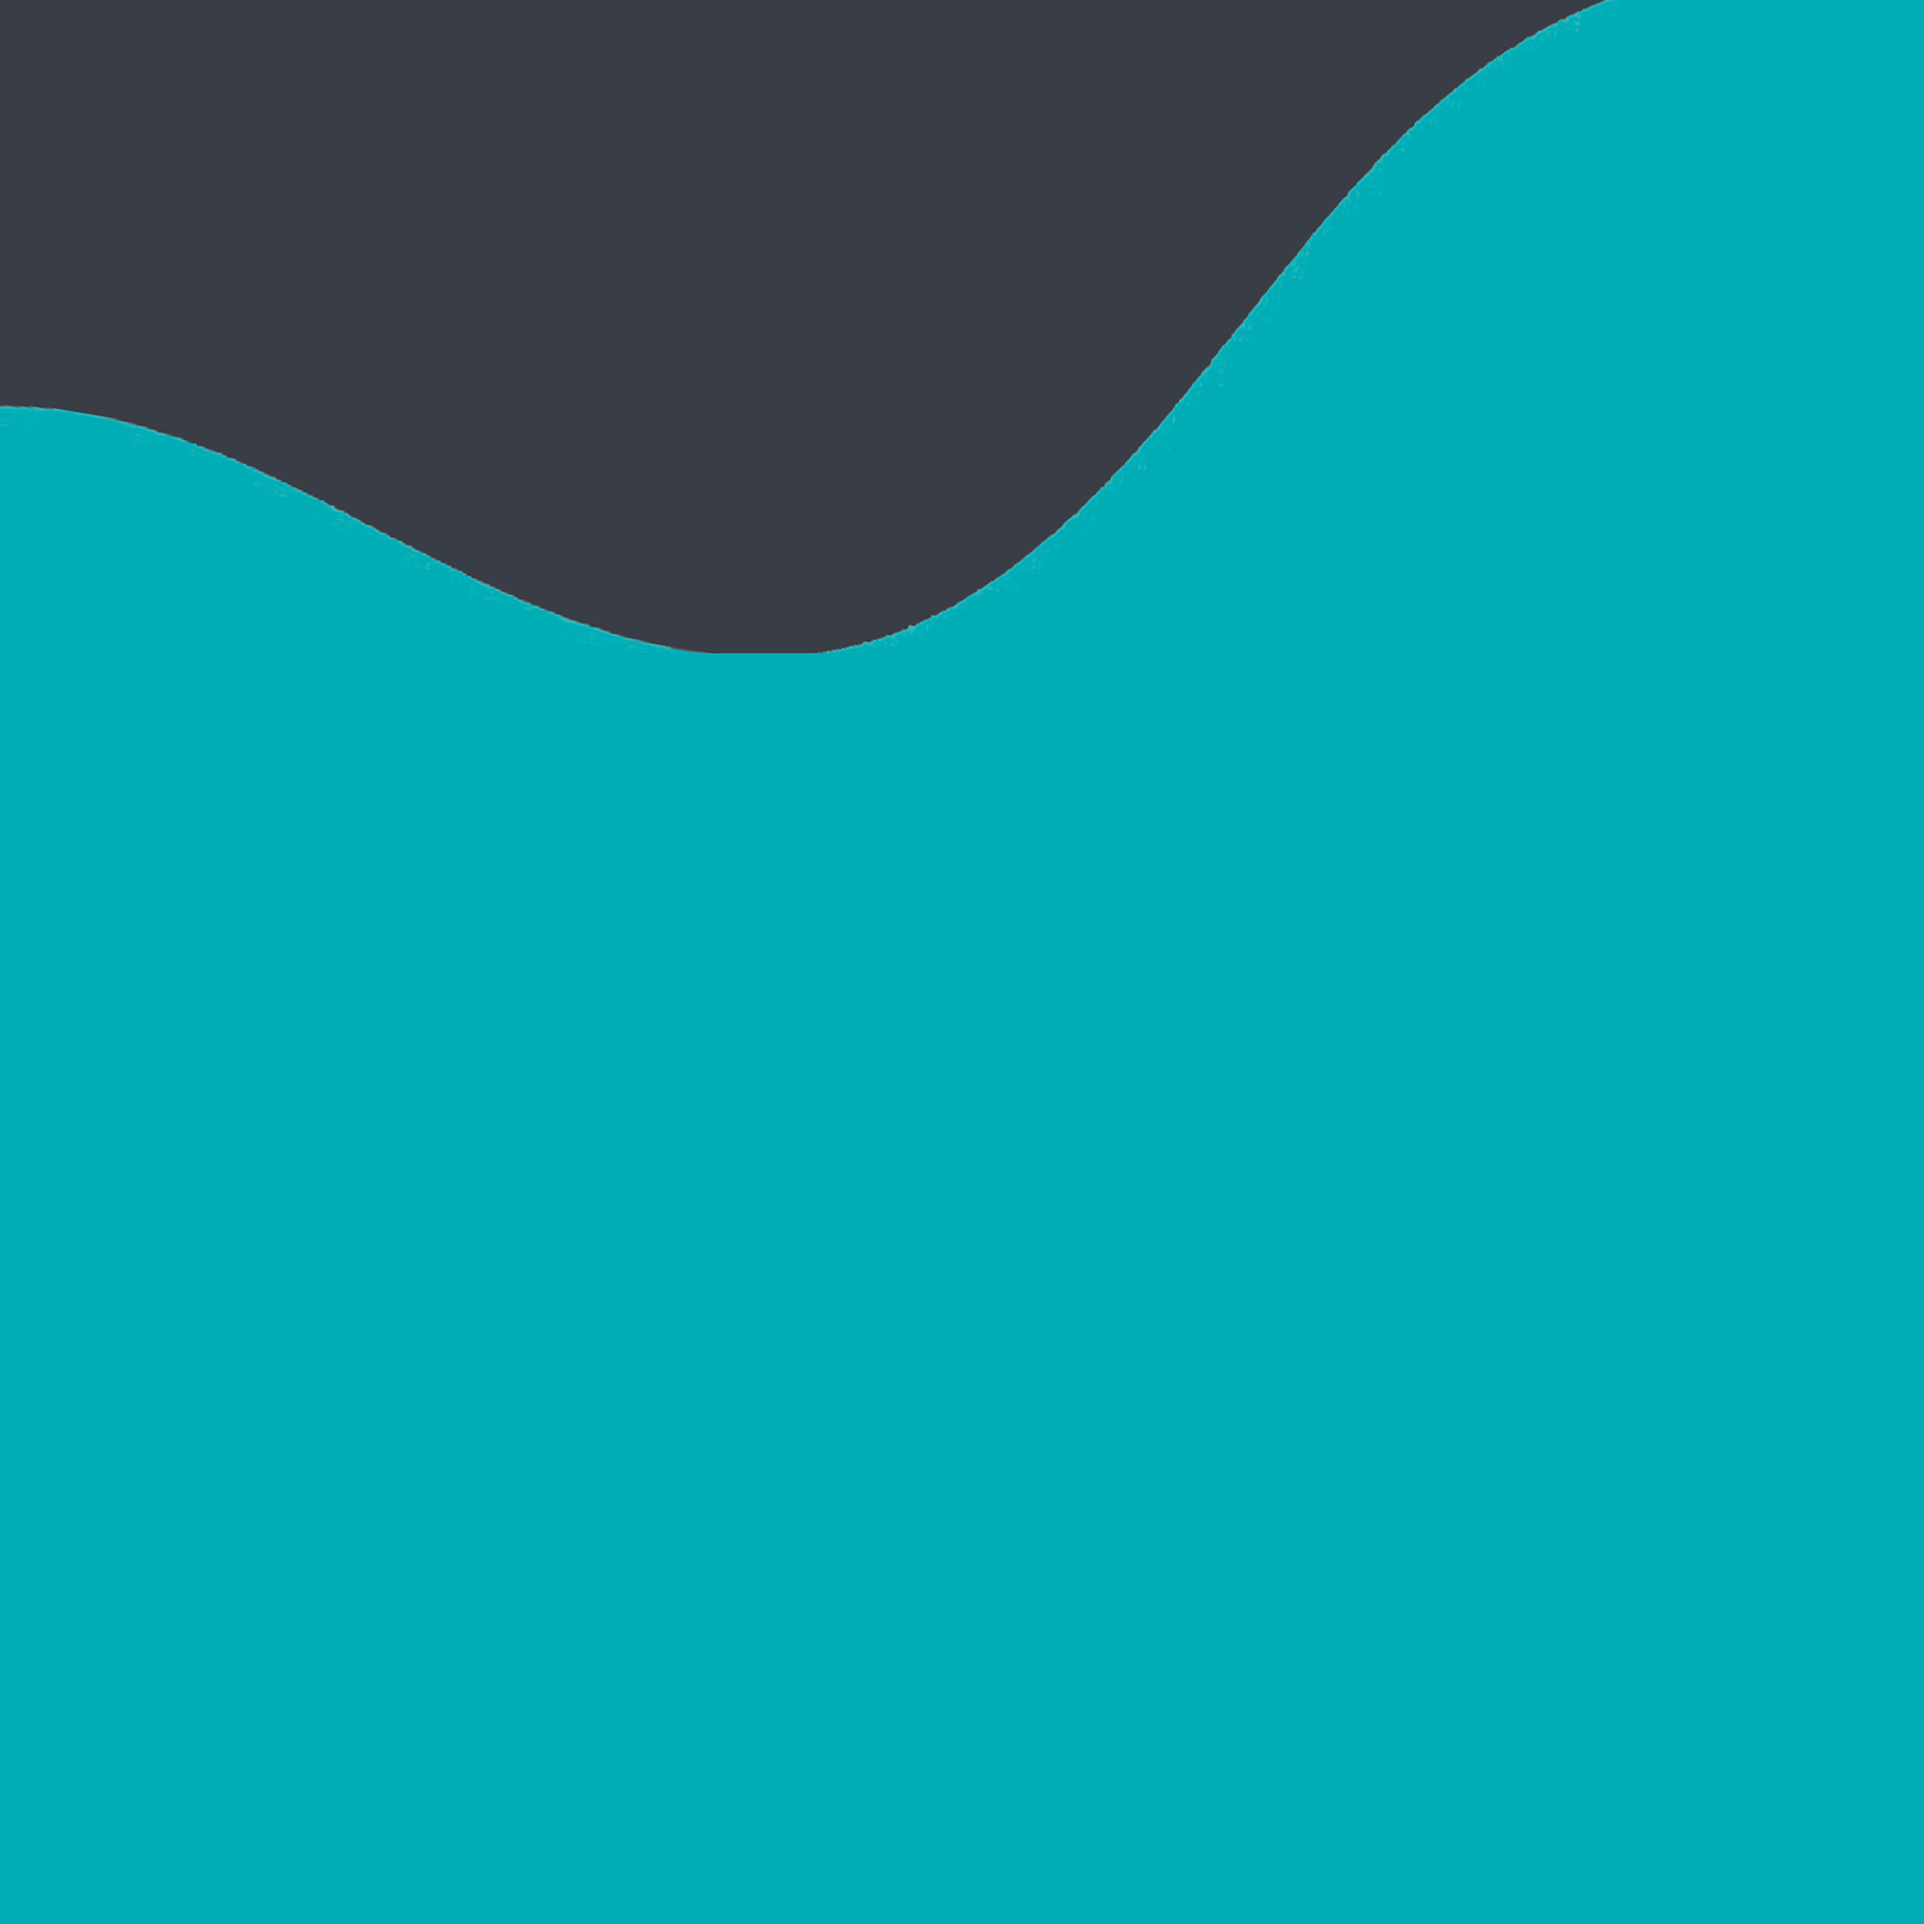
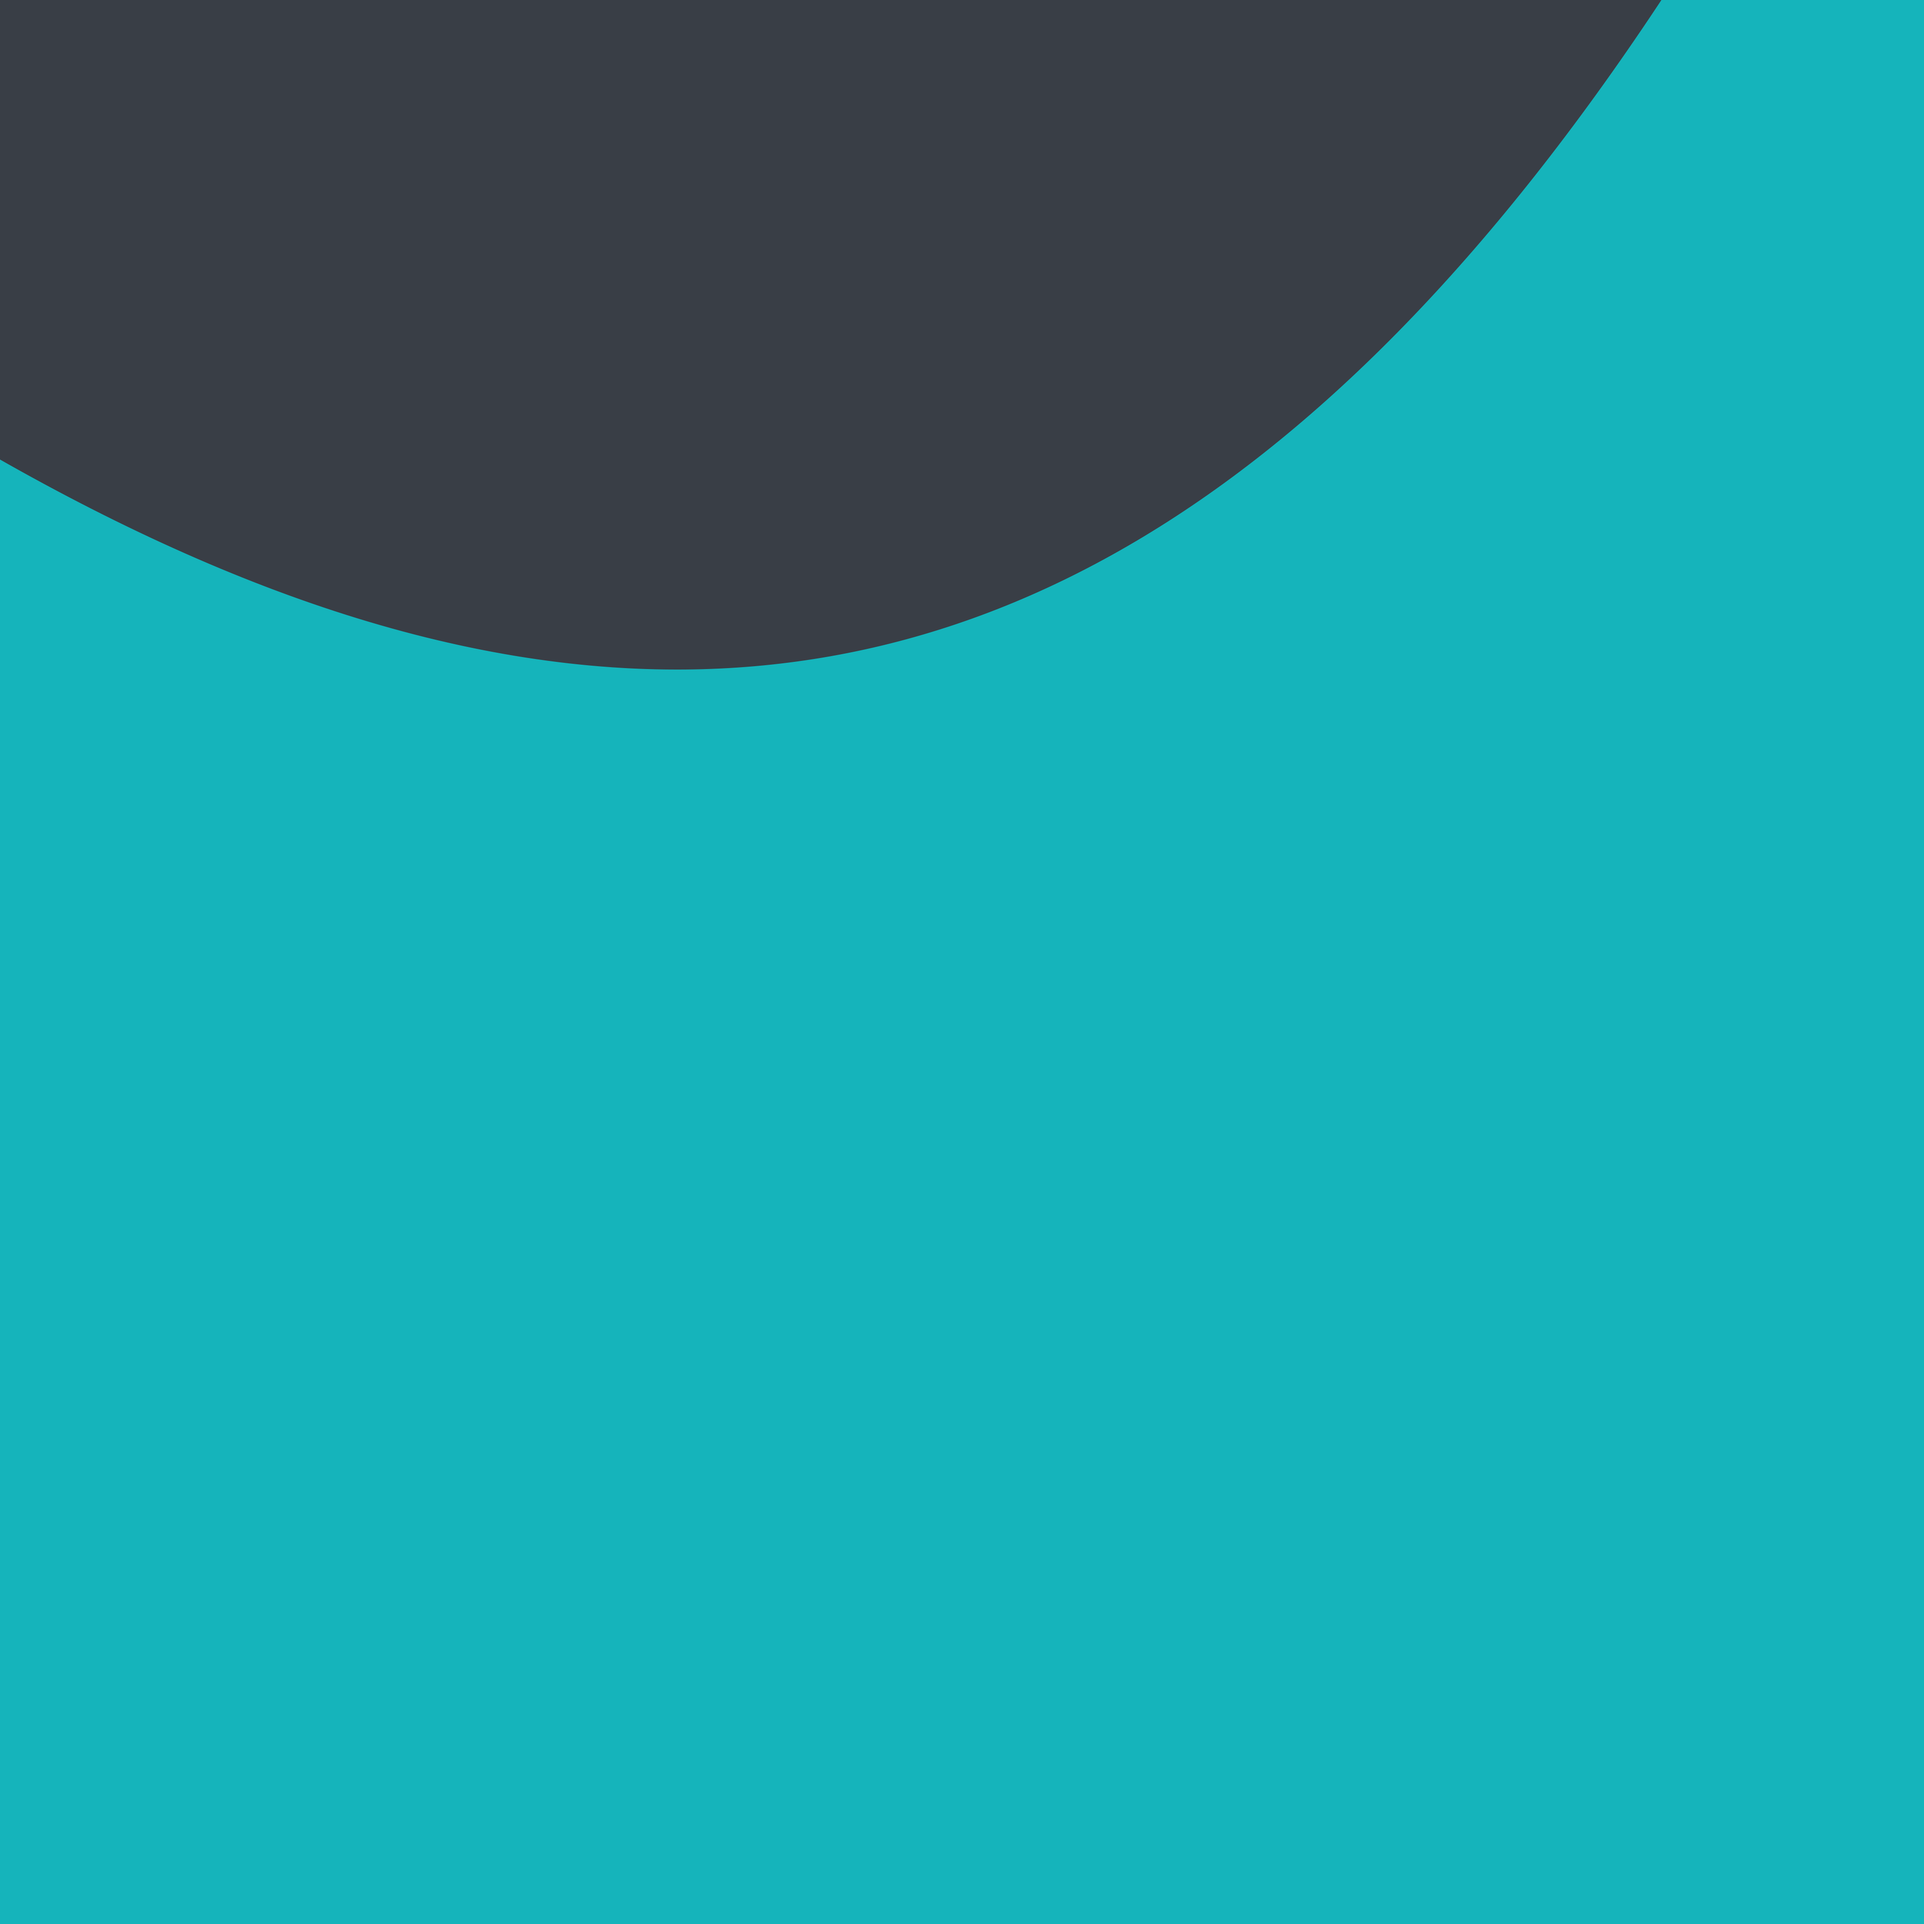
backgroundChangeMobile

Changed region(s): [[0.0, 0.0, 0.875, 0.375]]

diff --git a/src/index.css b/src/index.css
@@ -1,5 +1,5 @@
 body{
-    background-color: #00ADB5;
+    background-color: #15b4bb;
 }
 @media (min-width: 768px){
     body{
